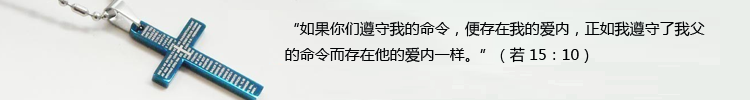
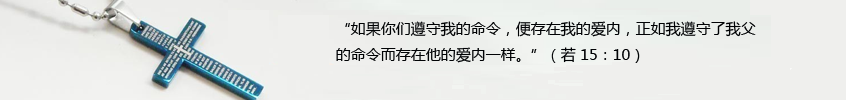
modify picture size and change gravatar url.

Changed region(s): [[0.0613, 0.0, 0.368, 1.0], [0.368, 0.21, 0.9507, 0.36], [0.368, 0.48, 0.7973, 0.63]]

diff --git a/css/main.css b/css/main.css
@@ -611,6 +611,7 @@ section
 /*  min-height: 100px;*/
   margin-left: auto;
   margin-right: auto;
+  width: 100%;
 }
 
 .widget-pic .widget-content img:hover {

diff --git a/functions.php b/functions.php
@@ -349,5 +349,22 @@
          add_action('login_init', 'remove_wp_open_sans');
     endif;
 
+	//官方Gravatar头像调用ssl头像链接
+	function get_ssl_avatar($avatar) {
+	 $avatar = preg_replace('/.*\/avatar\/(.*)\?s=([\d]+)&.*/','<img src="https://secure.gravatar.com/avatar/$1?s=$2" class="avatar avatar-$2" height="$2" width="$2">',$avatar);
+	 return $avatar;
+	}
+	add_filter('get_avatar', 'get_ssl_avatar');
+
+	function new_filename($filename) {
+		$info = pathinfo($filename);
+		$ext = empty($info['extension']) ? '' : '.' . $info['extension'];
+		$name = basename($filename, $ext);
+		if ( !preg_match('/^[0-9a-zA-Z_-]+$/', $name) )
+		$name = substr(md5($name), 0, 15);
+		return $name . $ext;
+	}
+	
+	add_filter('sanitize_file_name', 'new_filename', 10);
 
 ?>
